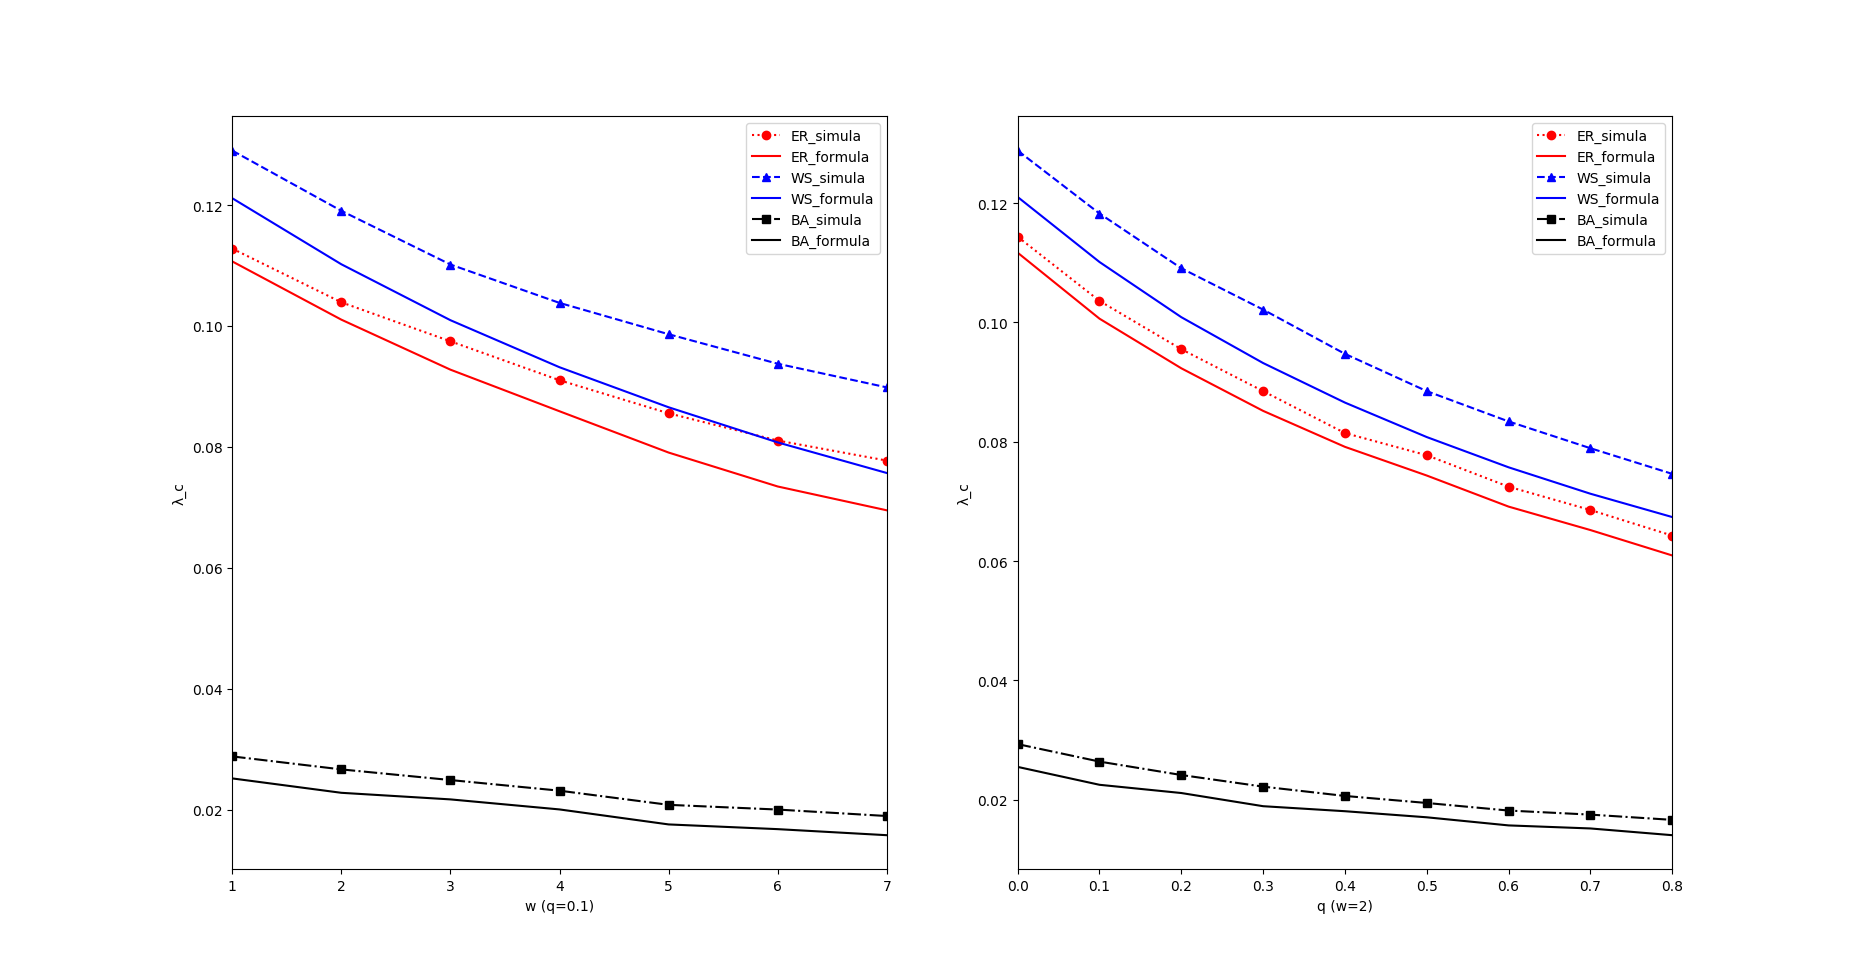
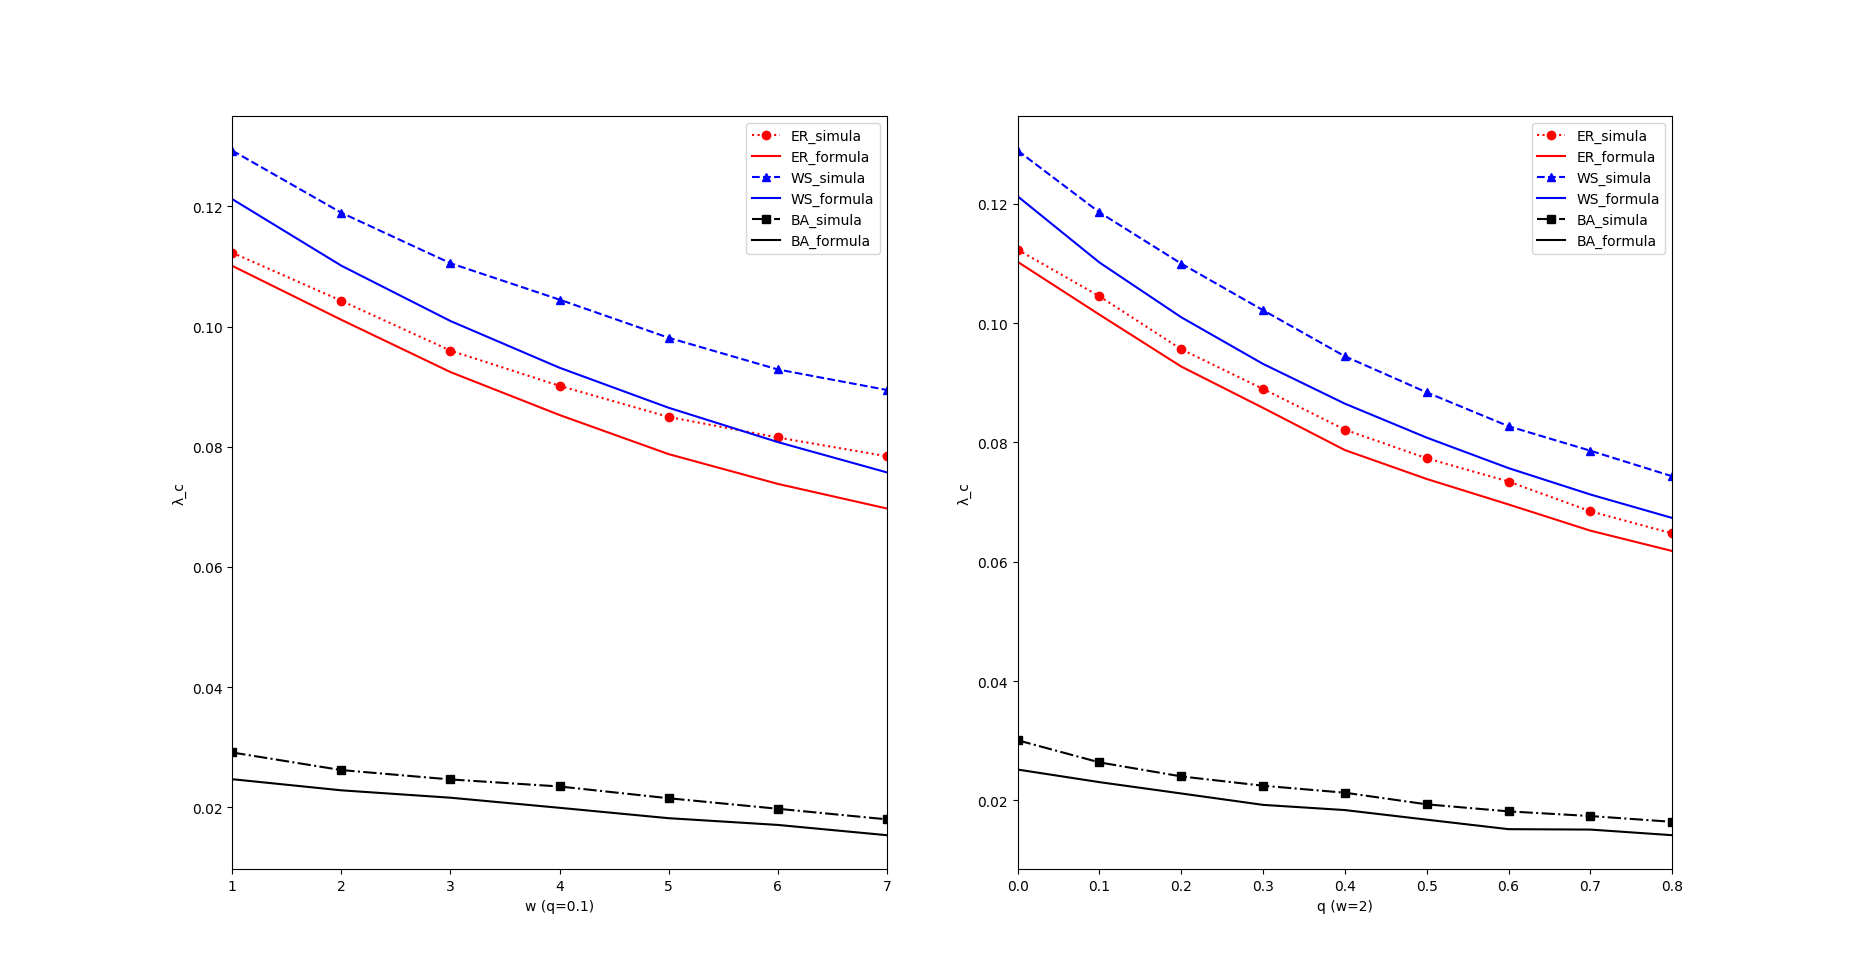
修改感染率变化的步长

diff --git a/sis.py b/sis.py
@@ -17,7 +17,7 @@ MU = 1  # 恢复概率μ
 RHO_0 = 0.15  # 初始感染密度ρ0
 TIMES = 2500  # 模拟轮数，时间步(论文为2500)
 INIT_WORK_P = 0.1  # 感染率初值
-INIT_STEP = INIT_WORK_P / 2  # 感染率变化的初始步长
+INIT_STEP = INIT_WORK_P / 4  # 感染率变化的初始步长
 PRECISION = 0.0001  # step_v的精度
 
 
